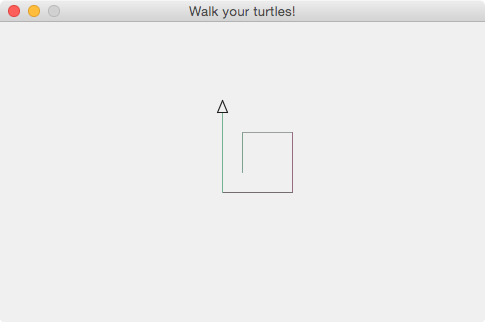
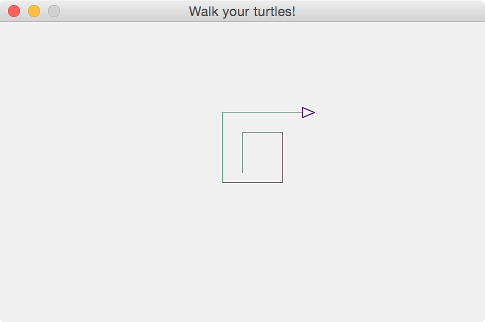
Updates documents in light of new clojurebridge-turtle api

diff --git a/outline/TURTLE-SAMPLES.md b/outline/TURTLE-SAMPLES.md
@@ -43,7 +43,7 @@ nil
 clojurebridge-turtle.walk=> (turtle-names)
 [:trinity]
 clojurebridge-turtle.walk=> (state)
-{:trinity {:x 0, :y 0, :angle 90, :color [30 30 30]}}
+{:trinity {:x 0, :y 0, :angle 90, :color [106 40 126]}}
 ```
 
 - initial state
@@ -79,6 +79,9 @@ its usage.
 
 
 #### 2. [easy] Basic movement - forward, backward, right and left
+
+> Use <kbd>Ctrl</kbd> + <kbd>Enter</kbd> or
+> <kbd>Cmd</kbd> + <kbd>Enter</kbd> at the end of the line on LightTable
 
 - forward
 
@@ -141,7 +144,7 @@ clojurebridge-turtle.walk=> (left 45)
 clojurebridge-turtle.walk=> (forward 50)
 {:trinity {:length 50}}
 clojurebridge-turtle.walk=> (state)
-{:trinity {:x -70.71068094436272, :y 29.289320335914155, :angle 90, :color [30 30 30]}}
+{:trinity {:x -70.71068094436272, :y 29.289320335914155, :angle 90, :color [106 40 126]}}
 ```
 
 ![movement sample](img/various-combination.png)
@@ -150,24 +153,27 @@ clojurebridge-turtle.walk=> (state)
 
 #### 3. [easy] Multiple turtles
 
+> Use <kbd>Ctrl</kbd> + <kbd>Enter</kbd> or
+> <kbd>Cmd</kbd> + <kbd>Enter</kbd> at the end of the line on LightTable
+
 - add turtles
 
 ```clojure
 clojurebridge-turtle.walk=> (init)
 :trinity
 clojurebridge-turtle.walk=> (add-turtle :neo)
-{:neo {:x 0, :y 0, :angle 90, :color [37 65 23]}}
+{:neo {:x 0, :y 0, :angle 90, :color [12 84 0]}}
 clojurebridge-turtle.walk=> (add-turtle :oracle)
-{:oracle {:x 0, :y 0, :angle 90, :color [208 74 0]}}
+{:oracle {:x 0, :y 0, :angle 90, :color [189 63 0]}}
 clojurebridge-turtle.walk=> (add-turtle :cypher)
-{:cypher {:x 0, :y 0, :angle 90, :color [65 56 57]}}
+{:cypher {:x 0, :y 0, :angle 90, :color [75 102 125]}}
 clojurebridge-turtle.walk=> (turtle-names)
 [:trinity :neo :oracle :cypher]
 ```
 
 ![four turtles](img/four-turtles.png)
 
-- make smiths tilt different angles
+- make turtles tilt different angles
 
 ```clojure
 clojurebridge-turtle.walk=> (right :neo (* 1 45))
@@ -197,6 +203,9 @@ clojurebridge-turtle.walk=> (forward :cypher 40)
 
 
 #### 4. [easy] Add one more turtle and give them commands
+
+> Use <kbd>Ctrl</kbd> + <kbd>Enter</kbd> or
+> <kbd>Cmd</kbd> + <kbd>Enter</kbd> at the end of the line on LightTable
 
 - add another turtle named :morpheus with color
 
@@ -241,6 +250,10 @@ clojurebridge-turtle.walk=> (forward :morpheus 20)
 
 
 #### 5. [easy - intermediate] Move all five turtles - introduction to function
+
+> Use <kbd>Ctrl</kbd> + <kbd>Enter</kbd> or
+> <kbd>Cmd</kbd> + <kbd>Enter</kbd> at the last line of functions
+> on LightTable
 
 We've had five turtles and want to move or tilt those five.
 Let's think how we can make all five turtles go forward by 40?
@@ -304,9 +317,13 @@ clojurebridge-turtle.walk=> (map (juxt #(right % 60) #(forward % 30)) (turtle-na
 
 #### 6. [easy - intermediate] Write a function that adds turtles
 
+> Use <kbd>Ctrl</kbd> + <kbd>Enter</kbd> or
+> <kbd>Cmd</kbd> + <kbd>Enter</kbd> at the end of each line or last
+> line of function definition on LightTable
+
 While playing around with turtles, we may mess up their movements.
 The `(init)` command makes everything clean up and back to the initial state.
-It is a good command, but again, we need to repeat `(add-turtle)`
+It is a good command, but again, we need to repeat `(add-turtle name)`
 command many times to get five turtles.
 
 We want something. Yes, we can define our own function for that.
@@ -316,16 +333,17 @@ function call anytime.
 
 - 6.1 define a function to add three turtles and a turtle with the name :neo
 
-Since we already have :trinity, we are going to add three smiths
-and :neo. After that, we will have five turtles in total.
+Since we already have :trinity, we are going to add four turtles.
+Let's name them, :neo, :oracle, :cypher, :morpheus.
+Once all are added, we will get five turtles in total.
 
 ```clojure
 ;; function definition
 (defn add-four-turtles
   []
-  (init)
-  (dotimes [i 3] (add-turtle))
-  (add-turtle :neo))
+  (let [names [:neo :oracle :cypher :morpheus]]
+    (init)
+    (dotimes [i (count names)] (add-turtle (nth names i)))))
 
 ;; usage of the five-turtles function
 (add-four-turtles)
@@ -336,40 +354,60 @@ and :neo. After that, we will have five turtles in total.
 
 ![add four turtles](img/add-four-turtles.png)
 
-- 6.2 [bonus] add a parameter to `add-four-turtles` function so that the last turtle can
-take any name
+- 6.2 [bonus] add a parameter to `add-four-turtles` function so that
+each turtle can take specified name.
 
-Our `add-four-turtles` function only add :neo in the end.
-Instead, let's give a freedom to choose any name for the last turtle.
+Our `add-four-turtles` function uses hard-coded names for turtles.
+Instead, let's enjoy a freedom to choose any name for them without
+rewriting the function.
+
+Now, we are going to write **multi-arity function**. The arity means a
+number of arguments the function takes. For example, our
+`add-four-turtle` function so far takes zero argument only. If we add
+`add-four-turtle` function which takes one argument, the function
+turns to a multi-arity function. This is because the function takes
+zero or one argument.
+
 
 ```clojure
 ;; function definition
 (defn add-four-turtles
-  ([] (add-four-turtles :neo))
-  ([n]
+  ([] (add-four-turtles [:neo :oracle :cypher :morpheus]))
+  ([names]
     (init)
-    (dotimes [i 3] (add-turtle))
-    (add-turtle n)))
+    (dotimes [i (count names)] (add-turtle (nth names i)))))
 
 ;; usage example
-(add-four-turtles :oracle)
+(add-four-turtles)                                 ;; uses predefined names
+(add-four-turtles [:taylor :tess :tiffany :tracy]) ;; uses given names
 
 ;; check turtle names
 (turtle-names)
 ```
 
-- 6.3 [bonus] [exercise] control a number of smiths
+Look at the multi-arity function above once more. The
+`add-four-turtles` function doesn't need to have `four` in its name.
+The number of turtles can be any. If you list two names in the vector,
+the function will add two turtles.
 
-We can control over the number of smiths if we add one more parameter
-to the function. For example, smiths will added 2, or 5 by the
-function argument.
 
-Try it and add as many as smiths you want.
+- 6.3 [bonus] [exercise] make `add-four-turtles` to add exactly four turtles
 
+We can add a check so that only when four names are provided, the
+function adds four turtles; otherwise does nothing.
+
+Hint: function body will look like:
+
+```clojure
+(if (= 4 (count names))
+  ....blah blah blah...)
+```
 
 - 6.4 side note
 
-If we continue using the same turtles, a combination of `clean-all` and
+Suppose you have already five turtles and continue using the same
+turtles. But, you want to clean up all lines and make them home
+position. In such a case, a combination of `clean-all` and
 `home-all` gives the same effect as `add-four-turtles` function.
 
 ```clojure
@@ -385,12 +423,12 @@ If we continue using the same turtles, a combination of `clean-all` and
 
 #### 7. [intermediate - difficult] Write a function that tilts five turtles in different directions
 
-Next, we want to tilt five turtles' heads in different angles so that we can
-see their move well.
-For example, :trinity 0, :smith0 45, :smith1 90, :smith2 135,
-:neo 180.
-To write this function is no more straightforward since we need two
-kinds of parameters at the same time, name and angle.
+Next, we want to tilt five turtles' heads in different angles so that
+we can see their move well. For example, :trinity 0, :neo 45, :oracle
+90, :cypher 135, :morpheus 180.
+This function will be no more straightforward like we wrote so far.
+Since we need two kinds of parameters at the same time, name and
+angle, while previous functions used only one kind of parameter.
 
 Again, Clojure has many ways to do this.
 
@@ -407,7 +445,7 @@ If we put two-parameter pair together to form one, we can use `doseq` like previ
 clojurebridge-turtle.walk=> (def m (zipmap (turtle-names) (range 0 (count (turtle-names)))))
 #'clojurebridge-turtle.walk/m
 clojurebridge-turtle.walk=> m
-{:trinity 0, :smith0 1, :smith1 2, :smith2 3, :neo 4}
+{:trinity 0, :neo 1, :oracle 2, :cypher 3, :morpheus 4}
 
 ;; see each part is doing what
 clojurebridge-turtle.walk=> (count (turtle-names))
@@ -429,28 +467,28 @@ clojurebridge-turtle.walk=> (zipmap [:a :b] [0 1])
 ;; see how doseq uses m
 clojurebridge-turtle.walk=> (doseq [t m] (prn t))
 [:trinity 0]
-[:smith0 1]
-[:smith1 2]
-[:smith2 3]
-[:neo 4]
+[:neo 1]
+[:oracle 2]
+[:cypher 3]
+[:morpheus 4]
 nil
 
 ;; see first and second function do
 clojurebridge-turtle.walk=> (doseq [t m] (prn (first t) (second t)))
 :trinity 0
-:smith0 1
-:smith1 2
-:smith2 3
-:neo 4
+:neo 1
+:oracle 2
+:cypher 3
+:morpheus 4
 nil
 
 ;; see what (* (second t) 45) does
 clojurebridge-turtle.walk=> (doseq [t m] (prn (first t) (* (second t) 45)))
 :trinity 0
-:smith0 45
-:smith1 90
-:smith2 135
-:neo 180
+:neo 45
+:oracle 90
+:cypher 135
+:morpheus 180
 nil
 ```
 
@@ -477,8 +515,8 @@ line as in below.
 
 ```clojure
 clojurebridge-turtle.walk=> (map #(right % (* %2 45)) (turtle-names) (range 0 (count (turtle-names))))
-({:trinity {:angle 0}} {:smith0 {:angle 45}} {:smith1 {:angle 90}}
-{:smith2 {:angle 135}} {:neo {:angle 180}})
+({:trinity {:angle 0}} {:neo {:angle 45}} {:oracle {:angle 90}}
+{:cypher {:angle 135}} {:morpheus {:angle 180}})
 ```
 
 - 7.3 [bonus] recursion is another way to do
@@ -564,13 +602,13 @@ repeating the same sequence makes very easy.
 ```clojure
 ;; definition of walk-five-turtles functions
 (defn walk-five-turtles
-  [name len1 len2 angle]
-  (add-four-turtles name)
+  [names len1 len2 angle]
+  (add-four-turtles names)
   (tilt-turtles)
   (doseq-with-params len1 len2 angle))
 
 ;; usage examples
-(walk-five-turtles :oracle 10 60 90)
+(walk-five-turtles [:taylor :tess :tiffany :tracy] 10 60 90)
 ```
 
 ![walk five turtles](img/walk-five-turtles.png)
@@ -590,14 +628,14 @@ It is handy.
 ```clojure
 ;; function definition
 (defn walk-five-turtles-map
-  [{:keys [name len1 len2 angle]}]
-  (add-four-turtles name)
+  [{:keys [names len1 len2 angle]}]
+  (add-four-turtles names)
   (tilt-turtles)
   (doseq-with-params len1 len2 angle))
 
 
 ;; usage example
-(walk-five-turtles-map {:name :oracle :len1 10 :len2 60 :angle 90})
+(walk-five-turtles-map {:names [:taylor :tess :tiffany :tracy] :len1 10 :len2 60 :angle 90})
 ```
 
 If we look at the usage example, it's clear what parameter goes where.
@@ -631,7 +669,7 @@ clojurebridge-turtle.walk=> (leftmost :trinity)
 {:trinity {:angle 180}}
 
 ;; forward 480
-clojurebridge-turtle.walk=> (forward 480)
+clojurebridge-turtle.walk=> (forward :trinity 480)
 {:trinity {:length 480}}
 ```
 
@@ -642,7 +680,7 @@ clojurebridge-turtle.walk=> (leftmost :trinity)
 {:trinity {:angle 180}}
 
 ;; 48 times of forward 10
-clojurebridge-turtle.walk=> (dotimes [i 48] (forward 10))
+clojurebridge-turtle.walk=> (dotimes [i 48] (forward :trinity 10))
 nil
 ```
 ![forward 48*10](img/forward48times10.png)
